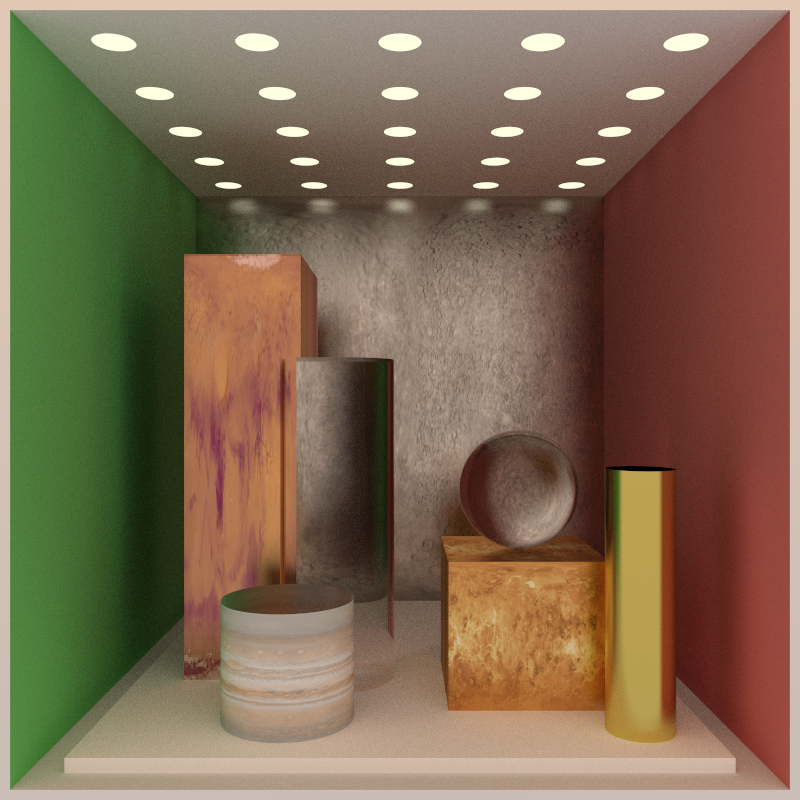
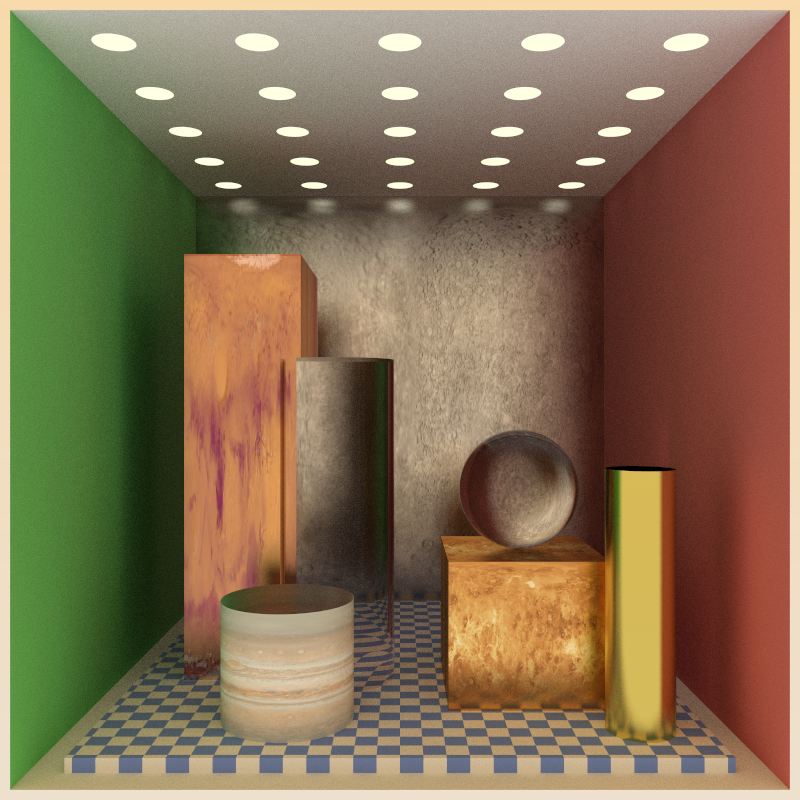
Small tweak

diff --git a/src/screen/screen.h b/src/screen/screen.h
@@ -19,14 +19,14 @@ struct Screen
 	static vec3 SkyColor(const Ray& ray)
 	{
 		const vec3 skyblue(0.5f, 0.7f, 1.0f);
-		const vec3 skyorange(1.0f, 0.7f, 0.5f);
-		
+		const vec3 skyorange(1.0f, 0.7f, 0.3f);
+
 		const vec3 white(1.0f, 1.0f, 1.0f);
-		const vec3 black(0.5f, 0.5f, 0.5f);
+		const vec3 black(0.8f, 0.8f, 0.8f);
 
 		vec3 normR = ray.direction;
-		float t = 0.4f * (normR.y + 1.0f);
-		return Tr::lerp(t, skyorange, black);
+		float t = 0.5f * (normR.y + 1.0f);
+		return Tr::lerp(t, skyorange, white);
 	}
 
 	static vec3 NightColor(const Ray& ray)

diff --git a/src/main.cpp b/src/main.cpp
@@ -471,7 +471,7 @@ void InitCornellBox()
 		Hitable* platform = new Box(
 			vec3(-roomWidth + 0.5f * (i + 1), platformHeight * i, -roomWidth + 0.5f * (i + 1)),
 			vec3(roomWidth - 0.5f * (i + 1), platformHeight * (i + 1), roomWidth - 0.5f * (i + 1)),
-			1);		
+			0);		
 		g_scene.objects.emplace_back(platform);
 	}
 
